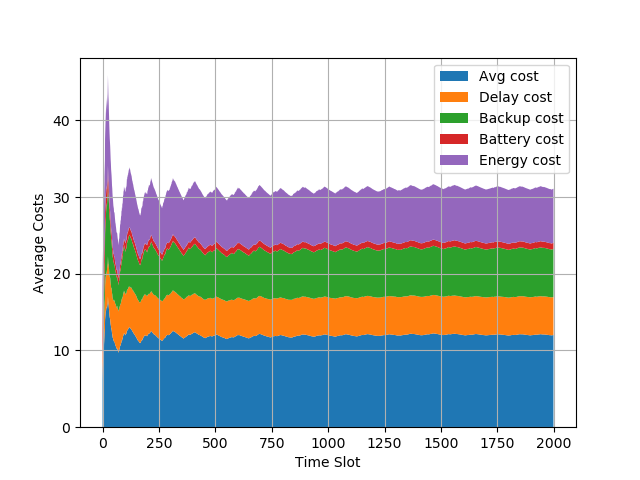
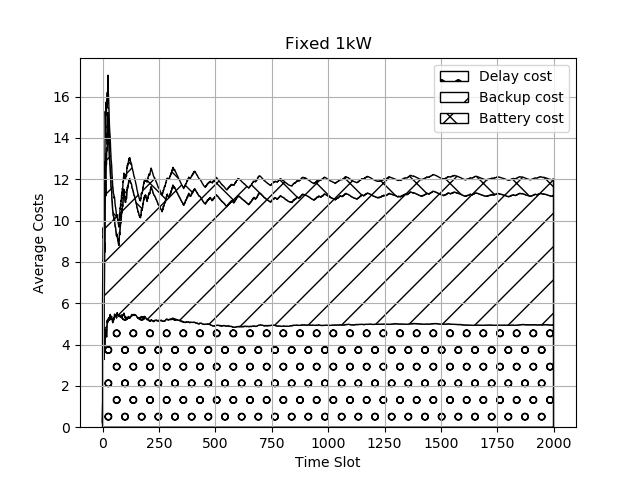
fix area chart

diff --git a/agent.py b/agent.py
@@ -401,7 +401,13 @@ plt.show()
 #ppo area chart
 plt.xlabel("Time Slot")
 plt.ylabel("Average Costs")
-plt.stackplot(range(t_range), avg_rewards_ppo, avg_rewards_time_list_ppo, avg_rewards_bak_list_ppo, avg_rewards_bat_list_ppo, avg_rewards_energy_list_ppo, labels = ['Avg cost', 'Delay cost', 'Backup cost', 'Battery cost', 'Energy cost'])
+xx = range(t_range)
+yy = [avg_rewards_time_list_ppo, avg_rewards_bak_list_ppo, avg_rewards_bat_list_ppo]
+fig = plt.stackplot(xx, yy, colors = 'w', edgecolor = 'black', labels = ['Delay cost', 'Backup cost', 'Battery cost'])
+hatches = ['o', '/', 'x']
+for s, h in zip(fig, hatches):
+    s.set_hatch(h)
+plt.title('PPO')
 plt.legend()
 plt.grid()
 my_file = 'p='+str(x)+'/ppo_area='+str(x)+'_.png'
@@ -410,7 +416,13 @@ plt.show()
 #random area chart
 plt.xlabel("Time Slot")
 plt.ylabel("Average Costs")
-plt.stackplot(range(t_range), avg_rewards_random, avg_rewards_time_list_random, avg_rewards_bak_list_random, avg_rewards_bat_list_random, avg_rewards_energy_list_random, labels = ['Avg cost', 'Delay cost', 'Backup cost', 'Battery cost', 'Energy cost'])
+xx = range(t_range)
+yy = [avg_rewards_time_list_random, avg_rewards_bak_list_random, avg_rewards_bat_list_random]
+fig = plt.stackplot(xx, yy, colors = 'w', edgecolor = 'black', labels = ['Delay cost', 'Backup cost', 'Battery cost'])
+hatches = ['o', '/', 'x']
+for s, h in zip(fig, hatches):
+    s.set_hatch(h)
+plt.title('Random')
 plt.legend()
 plt.grid()
 my_file = 'p='+str(x)+'/random_area='+str(x)+'_.png'
@@ -419,7 +431,13 @@ plt.show()
 #myopic area chart
 plt.xlabel("Time Slot")
 plt.ylabel("Average Costs")
-plt.stackplot(range(t_range), avg_rewards_myopic, avg_rewards_time_list_myopic, avg_rewards_bak_list_myopic, avg_rewards_bat_list_myopic, avg_rewards_energy_list_myopic, labels = ['Avg cost', 'Delay cost', 'Backup cost', 'Battery cost', 'Energy cost'])
+xx = range(t_range)
+yy = [avg_rewards_time_list_myopic, avg_rewards_bak_list_myopic, avg_rewards_bat_list_myopic]
+fig = plt.stackplot(xx, yy, colors = 'w', edgecolor = 'black', labels = ['Delay cost', 'Backup cost', 'Battery cost'])
+hatches = ['o', '/', 'x']
+for s, h in zip(fig, hatches):
+    s.set_hatch(h)
+plt.title('Myopic')
 plt.legend()
 plt.grid()
 my_file = 'p='+str(x)+'/myopic_area='+str(x)+'_.png'
@@ -428,7 +446,13 @@ plt.show()
 #fixed 0.4kW area chart
 plt.xlabel("Time Slot")
 plt.ylabel("Average Costs")
-plt.stackplot(range(t_range), avg_rewards_fixed_1, avg_rewards_time_list_fixed_1, avg_rewards_bak_list_fixed_1, avg_rewards_bat_list_fixed_1, avg_rewards_energy_list_fixed_1, labels = ['Avg cost', 'Delay cost', 'Backup cost', 'Battery cost', 'Energy cost'])
+xx = range(t_range)
+yy = [avg_rewards_time_list_fixed_1, avg_rewards_bak_list_fixed_1, avg_rewards_bat_list_fixed_1]
+fig = plt.stackplot(xx, yy, colors = 'w', edgecolor = 'black', labels = ['Delay cost', 'Backup cost', 'Battery cost'])
+hatches = ['o', '/', 'x']
+for s, h in zip(fig, hatches):
+    s.set_hatch(h)
+plt.title('Fixed 0.4kW')
 plt.legend()
 plt.grid()
 my_file = 'p='+str(x)+'/fixed_0.4kW_area='+str(x)+'_.png'
@@ -437,7 +461,13 @@ plt.show()
 #fixed 1kW area chart
 plt.xlabel("Time Slot")
 plt.ylabel("Average Costs")
-plt.stackplot(range(t_range), avg_rewards_fixed_2, avg_rewards_time_list_fixed_2, avg_rewards_bak_list_fixed_2, avg_rewards_bat_list_fixed_2, avg_rewards_energy_list_fixed_2, labels = ['Avg cost', 'Delay cost', 'Backup cost', 'Battery cost', 'Energy cost'])
+xx = range(t_range)
+yy = [avg_rewards_time_list_fixed_2, avg_rewards_bak_list_fixed_2, avg_rewards_bat_list_fixed_2]
+fig = plt.stackplot(xx, yy, colors = 'w', edgecolor = 'black', labels = ['Delay cost', 'Backup cost', 'Battery cost'])
+hatches = ['o', '/', 'x']
+for s, h in zip(fig, hatches):
+    s.set_hatch(h)
+plt.title('Fixed 1kW')
 plt.legend()
 plt.grid()
 my_file = 'p='+str(x)+'/fixed_1kW_area='+str(x)+'_.png'
@@ -446,7 +476,13 @@ plt.show()
 #dqn area chart
 plt.xlabel("Time Slot")
 plt.ylabel("Average Costs")
-plt.stackplot(range(t_range), avg_rewards_dqn, avg_rewards_time_list_dqn, avg_rewards_bak_list_dqn, avg_rewards_bat_list_dqn, avg_rewards_energy_list_dqn, labels = ['Avg cost', 'Delay cost', 'Backup cost', 'Battery cost', 'Energy cost'])
+xx = range(t_range)
+yy = [avg_rewards_time_list_dqn, avg_rewards_bak_list_dqn, avg_rewards_bat_list_dqn]
+fig = plt.stackplot(xx, yy, colors = 'w', edgecolor = 'black', labels = ['Delay cost', 'Backup cost', 'Battery cost'])
+hatches = ['o', '/', 'x']
+for s, h in zip(fig, hatches):
+    s.set_hatch(h)
+plt.title('DQN')
 plt.legend()
 plt.grid()
 my_file = 'p='+str(x)+'/dqn_area='+str(x)+'_.png'
